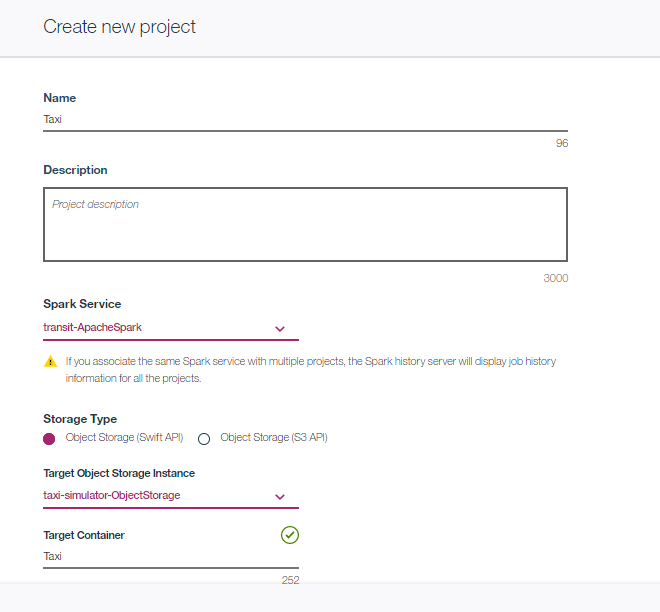
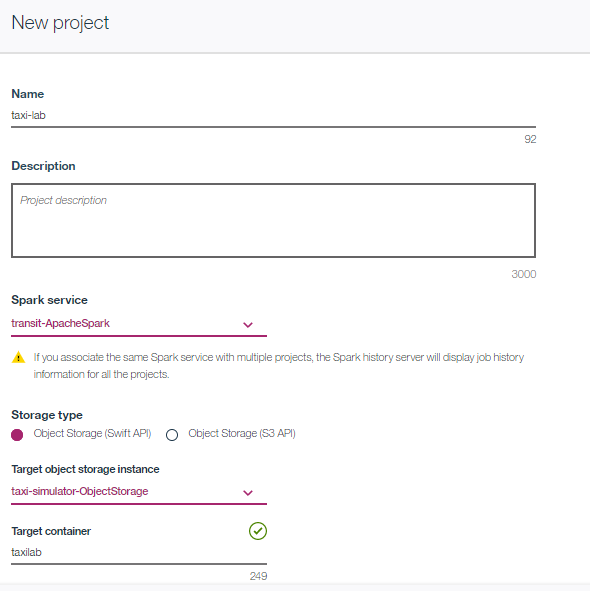
readme update

diff --git a/README.md b/README.md
@@ -229,24 +229,24 @@ We need to insert the credentials into the node configuration.
 * Use the Node-RED for implementing some logic and UI
 
 0. You will start with this flow                                           
-![Node-RED start with own flow](images/12_Node-RED_Start_own_flow.jpg)
+![Node-RED start with own flow](images/node-red-start-own-flow.png)
 
 1. Create IoT input node
 
 2. Configure IoT input node.                                             
 ![Node-RED configure iot input node](images/11_Node-RED_Configure_iot_input_node.jpg)
 
-4. Add debug node and make a connection to the IoT input node
+3. Add debug node and make a connection to the IoT input node
 
-5. Add a switch node
+4. Add a switch node
 
-6. Insert in the switch node into property the string **payload.d.velocity** and add a rules for > 50 and <50.              
+5. In the switch node, insert the string **payload.d.velocity** into "property and add a rules for >25 and <25.              
 ![Node-RED configure switch node](images/10_Node-RED_Configure_switch_node.jpg)
 
-7. Create a new debug node and connect each output of the switch node.              
+6. Create a new debug node and connect each output of the switch node.              
 ![Node-RED configure connect switch to debug](images/11_Node-RED_Connect_debug_to_switch.jpg)
 
-8. Create a new function node to build a text message in case of danger.        
+7. Create a new function node to build a text message in case of danger.        
 ![Node-RED Function node danger](images/13_Node-RED_Function_node_danger.jpg)
 ```
   // Danger
@@ -254,7 +254,7 @@ We need to insert the credentials into the node configuration.
   return msg;
 ```
 
-9. Create a two additional function nodes; one to build a text message in case of safe status and one to forward all data, and insert following code.          
+8. Create a two additional function nodes; one to build a text message in case of safe status and one to forward all data, and insert following code.          
 ![Node-RED All function nodes](images/14_Node-RED_All_function_nodes.jpg)
 ```
   // Safe
@@ -266,7 +266,7 @@ We need to insert the credentials into the node configuration.
   msg.payload = msg.payload.d.velocity;
   return msg;
 ```
-6. Press **Deploy** in the right upper corner of the Node-RED Editor page.
+9. Press **Deploy** in the right upper corner of the Node-RED Editor page.
 
 
 ---
@@ -288,7 +288,7 @@ Click *create*.
 
     ![new project in DSX](images/dsx-create-project.png)
 
-6. Give your new project a name, for example **"Taxi"**. Leave the defaults for the other configurations.
+6. Give your new project a name, for example **"taxi-lab"**. Leave the defaults for the other configurations.
 
     The chosen Spark Service is the default Spark service that was configured when you set up your DSX account.
 
